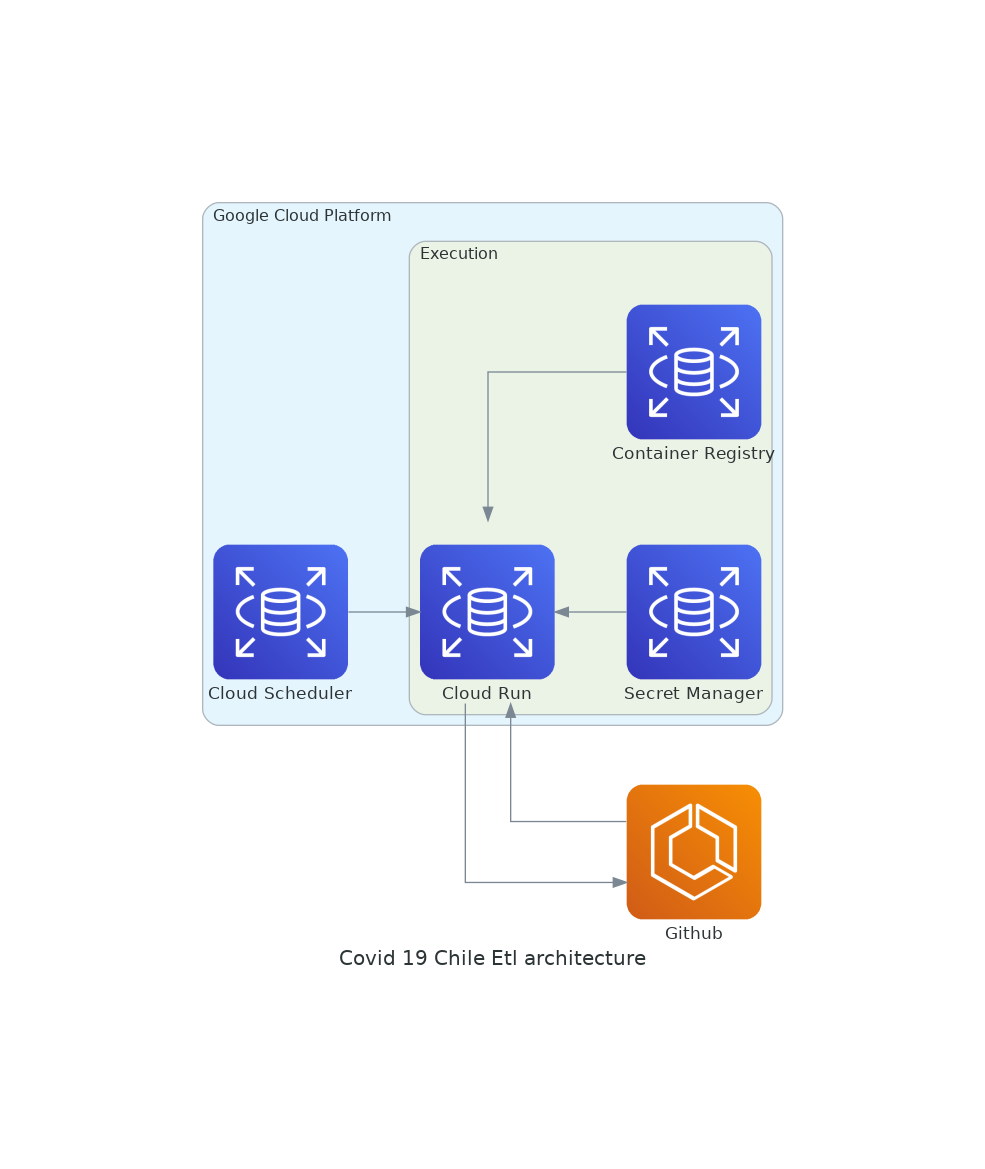
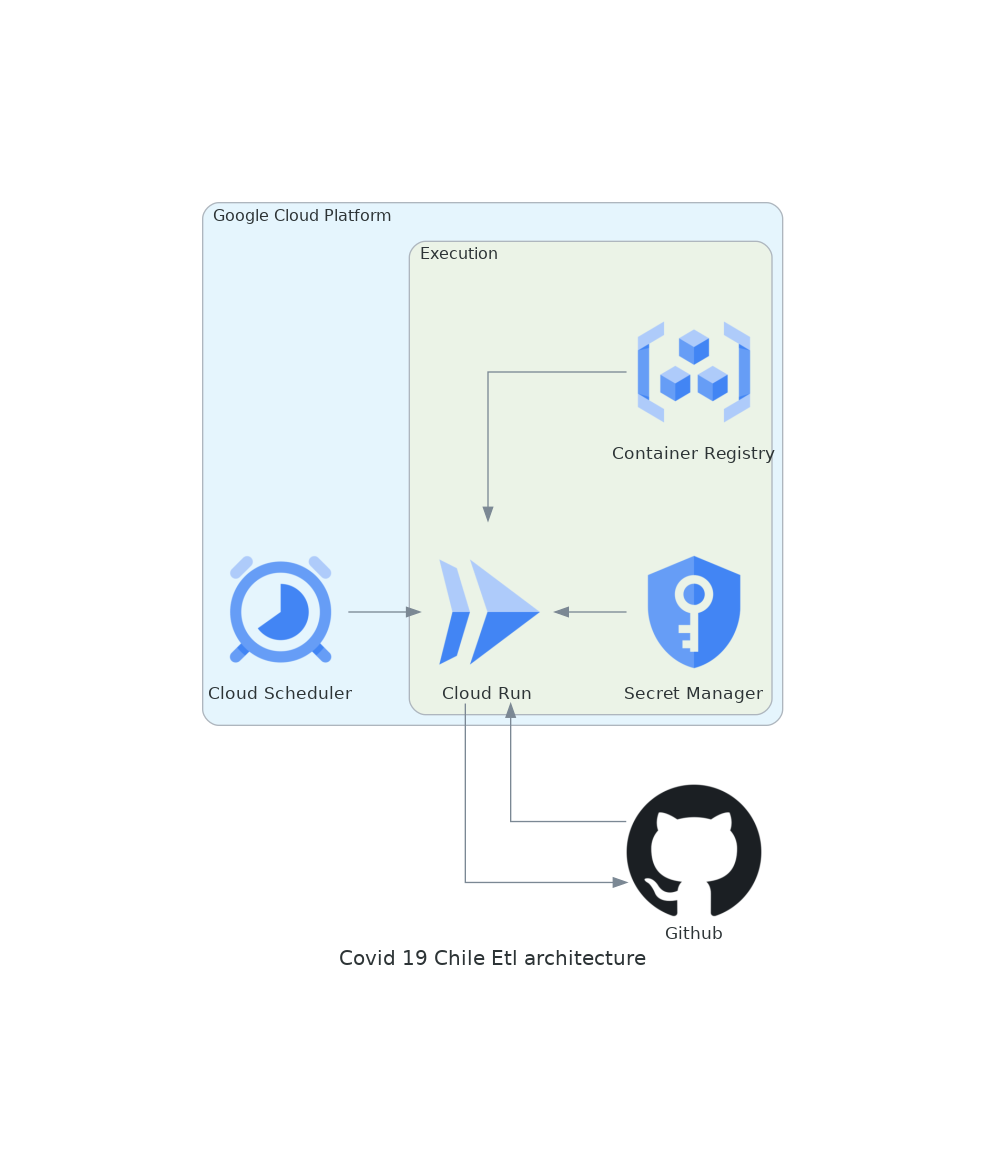
Changes!

diff --git a/diagram.py b/diagram.py
@@ -3,24 +3,25 @@
 # Container Registry
 # Cloud Scheduler
 # Cloud Run
-
 from diagrams import Cluster, Diagram
-from diagrams.aws.compute import ECS
-from diagrams.aws.database import RDS
-from diagrams.aws.network import Route53
+from diagrams.gcp.security import KeyManagementService as Secret
+from diagrams.gcp.devtools import Scheduler
+from diagrams.gcp.devtools import ContainerRegistry
+from diagrams.gcp.compute import Run
+from diagrams.onprem.vcs import Github
 
 with Diagram("Covid 19 Chile Etl architecture", show=False):
     
-    github = ECS("Github")
+    github = Github("Github")
 
     with Cluster("Google Cloud Platform"):
 
-        cloud_scheduler = RDS("Cloud Scheduler")
+        cloud_scheduler = Scheduler("Cloud Scheduler")
 
         with Cluster("Execution"):
 
-            cloud_run = RDS("Cloud Run")
-            cloud_run << [RDS("Secret Manager"), RDS("Container Registry")]
+            cloud_run = Run("Cloud Run")
+            cloud_run << [Secret("Secret Manager"), ContainerRegistry("Container Registry")]
 
     cloud_scheduler >> cloud_run
 

diff --git a/README.md b/README.md
@@ -1,5 +1,5 @@
 # doc-covid19-chile-pipeline
 This is a documentation
 
-Here an architecture diagram
+Here the architecture diagram
 ![Alt text](covid_19_chile_etl_architecture.png "architecture diagram")
